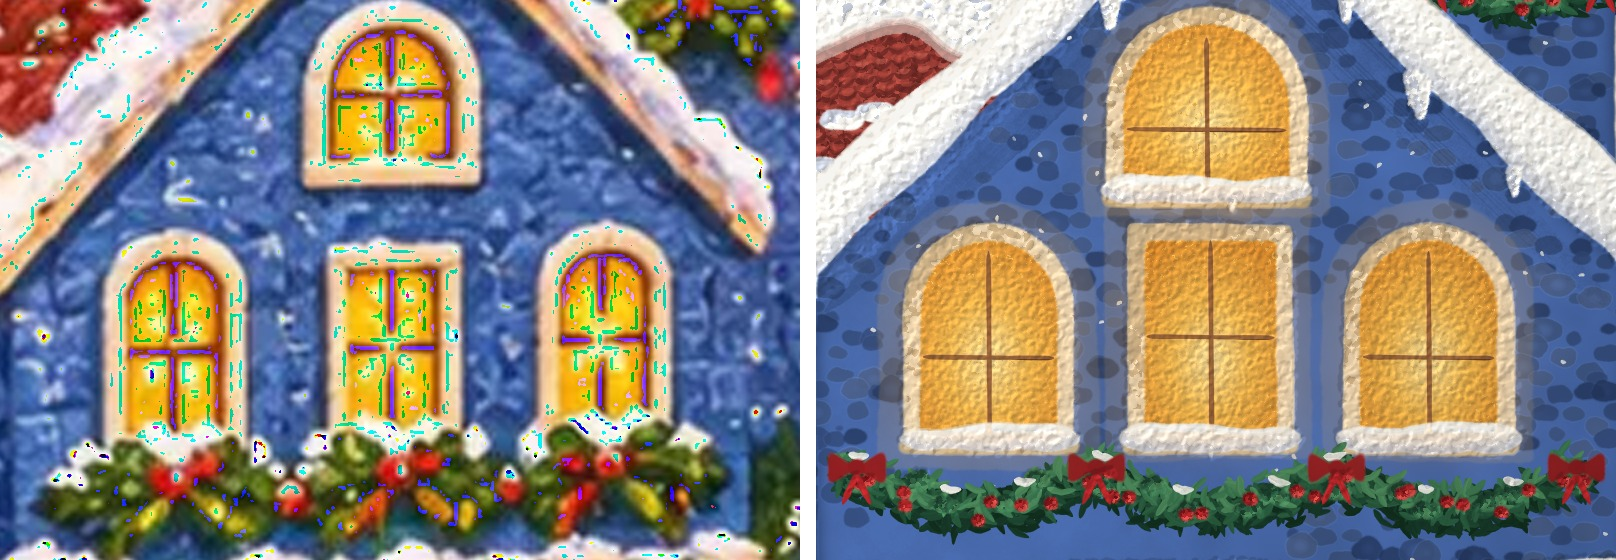
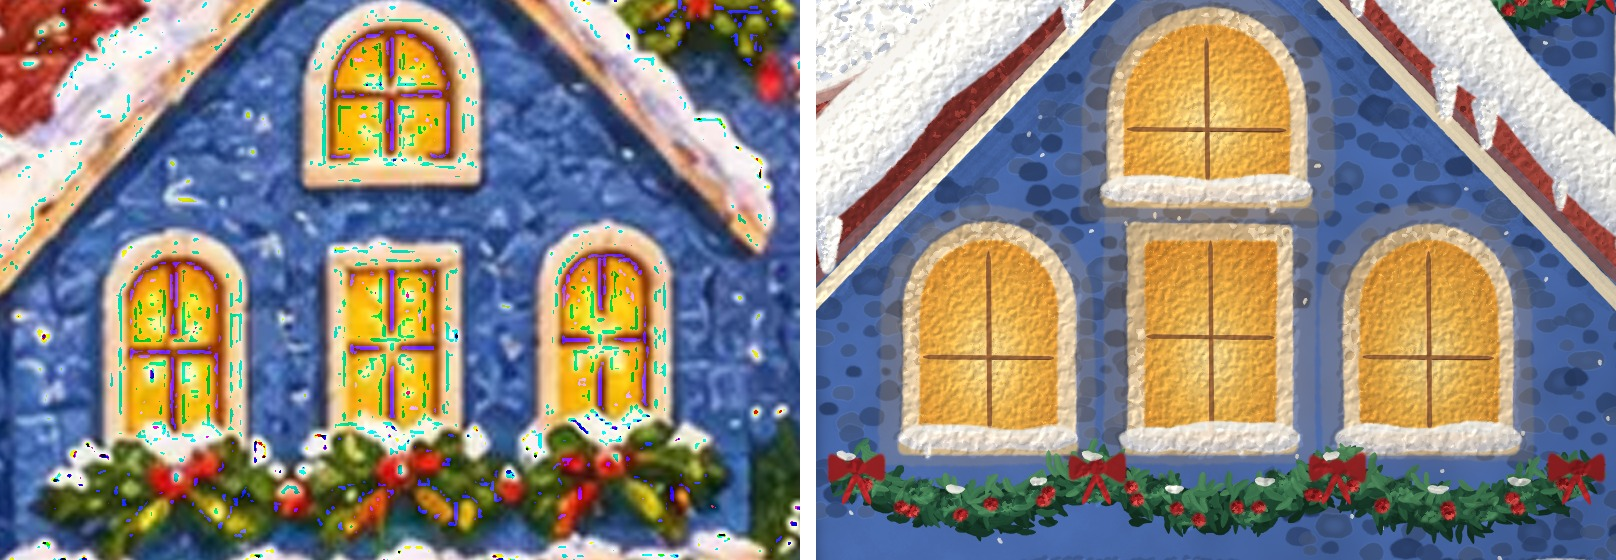
Blue shop v3: thick roof edges and deep overhangs on the front gable and tall house
Measured first: the silhouette already matches the target's width row by row, so the building is not
stretched; the upright look came from thin roof edges and shallow overhangs.

Claude-Session: https://claude.ai/code/session_017tNAHgSCzTbES1SzX2uUW2

Changed region(s): [[0.495, 0.0, 1.0, 1.0]]

diff --git a/usmap/closeup/toytown/build_blue_shop.py b/usmap/closeup/toytown/build_blue_shop.py
@@ -319,8 +319,9 @@ def build():
     # the tall house
     wall([(203, 760), (300, 760), (300, 520), (252, 446), (205, 520)], BLUE, fleck=.6)
     eave_shadow([(205, 522), (252, 450), (299, 522)], 8)
-    S([(203, 522), (252, 446), (301, 522)], 4.2, CREAM, a=1, dry=.15, taper=(0, 0))
-    snow_edge([(196, 523), (252, 441), (309, 523)], 11.0, drip=.35)
+    shaded([(190, 528), (252, 436), (314, 528), (308, 534), (252, 448), (196, 534)], ['#a8463c', ROOF, ROOF_D], light=(-1, -.4), wob=.2, rough=.4, edge_dark=.2)
+    S([(200, 531), (252, 449), (304, 531)], 3.6, CREAM, a=1, dry=.15, taper=(0, 0))
+    snow_edge([(186, 527), (252, 432), (318, 527)], 13.0, drip=.4)
     window(233, 485, 268, 521, True)
     window(212, 541, 236, 572, True)
     window(258, 542, 290, 580, False)
@@ -338,8 +339,12 @@ def build():
     for yy in (742, 744):
         S([(100, yy), (303, yy)], .6, BLUE_D, a=.4, dry=.4)
     eave_shadow([(102, 664), (200, 568), (300, 664)], 10)
-    S([(90, 666), (200, 562), (312, 666)], 5.0, CREAM, a=1, dry=.15, taper=(0, 0))
-    snow_edge([(84, 668), (200, 555), (318, 668)], 13.0, drip=.4)
+    # a thick roof edge with a deep overhang: the red roof slab seen end-on, its shadowed underside, the trim
+    slab = [(70, 676), (200, 548), (330, 676), (322, 684), (200, 562), (78, 684)]
+    shaded(slab, ['#a8463c', ROOF, ROOF_D], light=(-1, -.4), wob=.2, rough=.4, edge_dark=.2)
+    S([(80, 684), (200, 564), (320, 684)], 3.0, ROOF_D, a=.8, dry=.2, taper=(0, 0))
+    S([(88, 682), (200, 566), (312, 682)], 4.4, CREAM, a=1, dry=.15, taper=(0, 0))
+    snow_edge([(66, 674), (200, 544), (334, 674)], 15.0, drip=.45)
     window(177, 601, 218, 641, True)
     window(126, 655, 160, 703, True)
     window(182, 655, 215, 703, False)
